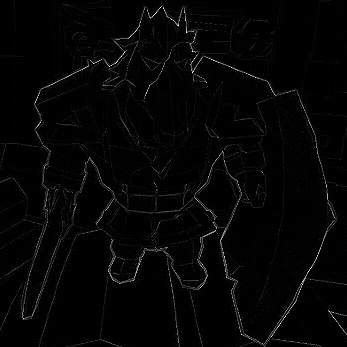
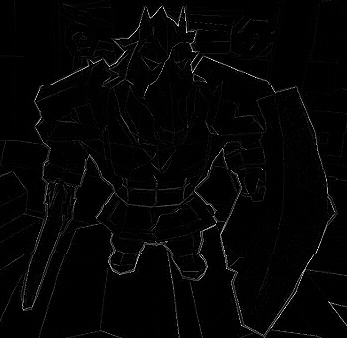
multiprocessing

diff --git a/OpenCvFilters.py b/OpenCvFilters.py
@@ -1,14 +1,33 @@
 import cv2
-from cv2 import waitKey
 from matplotlib.pyplot import show
 import numpy as np
+from multiprocessing import Pool
 
 convol_list = []
 
 def open_img():
-    img_path = "enemy.jpg"
+    img_path = "cancer_edge.jpg"
     load_img = cv2.imread(img_path, cv2.IMREAD_GRAYSCALE)
     return load_img
+
+def split_array(img):
+
+    out = np.array_split(img, 4)
+
+    return out
+
+def unsplit_array(new_arr):
+    convol_list = []
+    new_list = []
+
+    convol_list.append([res.get() for res in new_arr])
+
+    for i in range(0, len(convol_list)):
+        for j in range(0, len(convol_list[i])):
+            for h in range(0, len(convol_list[i][j])):
+                new_list.append(convol_list[i][j][h])
+
+    return new_list
 
 def choose_filter():
     filters = []
@@ -52,11 +71,11 @@ def choose_filter():
     filters.append(gaussianBlur_kernel)
 
     return filters
-
+    
 # pick a kernel, convolute the img and save it as test.jpg
 def convolution(filter,img):
     # final 1237, 1856
-    c_filter = filter[1]
+    c_filter = filter[4]
 
     k_size = len(c_filter)
 
@@ -74,12 +93,22 @@ def convolution(filter,img):
     return convol_arr
     
 def show(convol_arr):
-    print(convol_arr.shape)
-    cv2.imwrite('enemy_edge.jpg', convol_arr)
+    cv2.imwrite('cancer_edge.jpg', convol_arr)
 
 if __name__ == "__main__":
+    pool = Pool(processes=4)
+    new_arr = []
     filter = []
+
     load_img = open_img()
+    split_arr = split_array(load_img)
     filter = choose_filter()
-    convol_arr = convolution(filter, load_img)
-    show(convol_arr)
+
+    # give img array parts to processes
+    for i in range(0, 4):
+        new_arr.append(pool.apply_async(convolution, [filter, split_arr[i]]))
+    
+    new_list = unsplit_array(new_arr)
+
+    convol_final_arr = np.array(new_list)
+    show(convol_final_arr)
